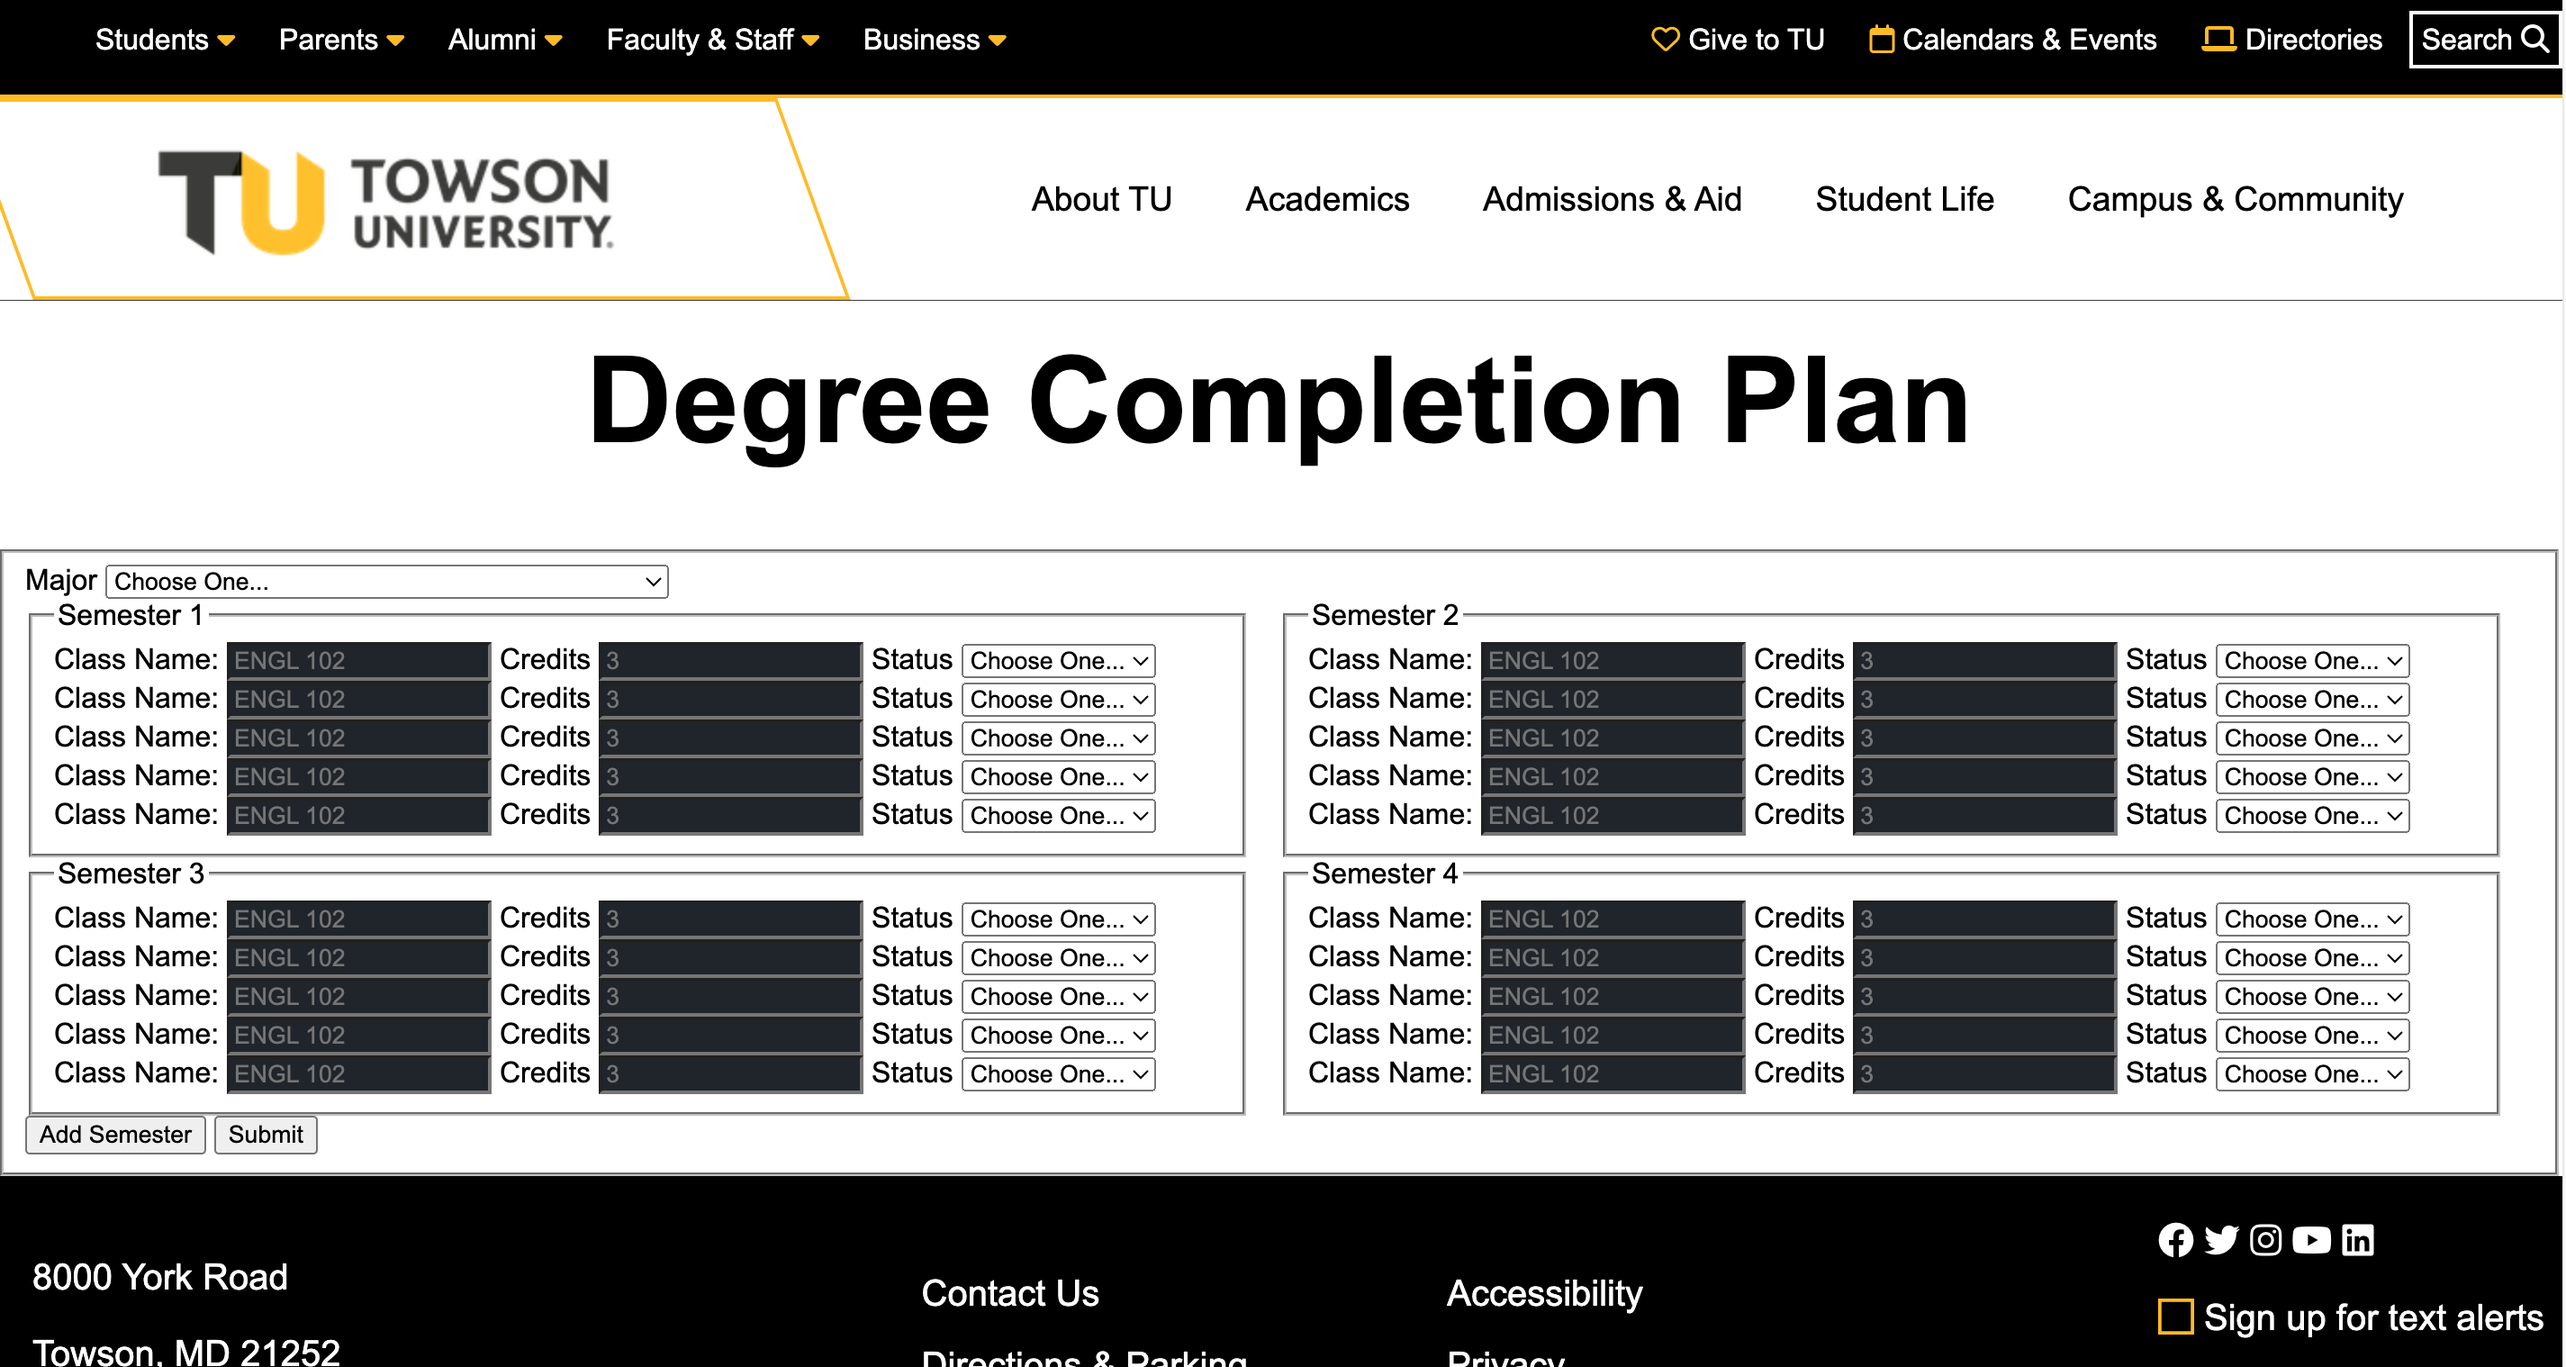
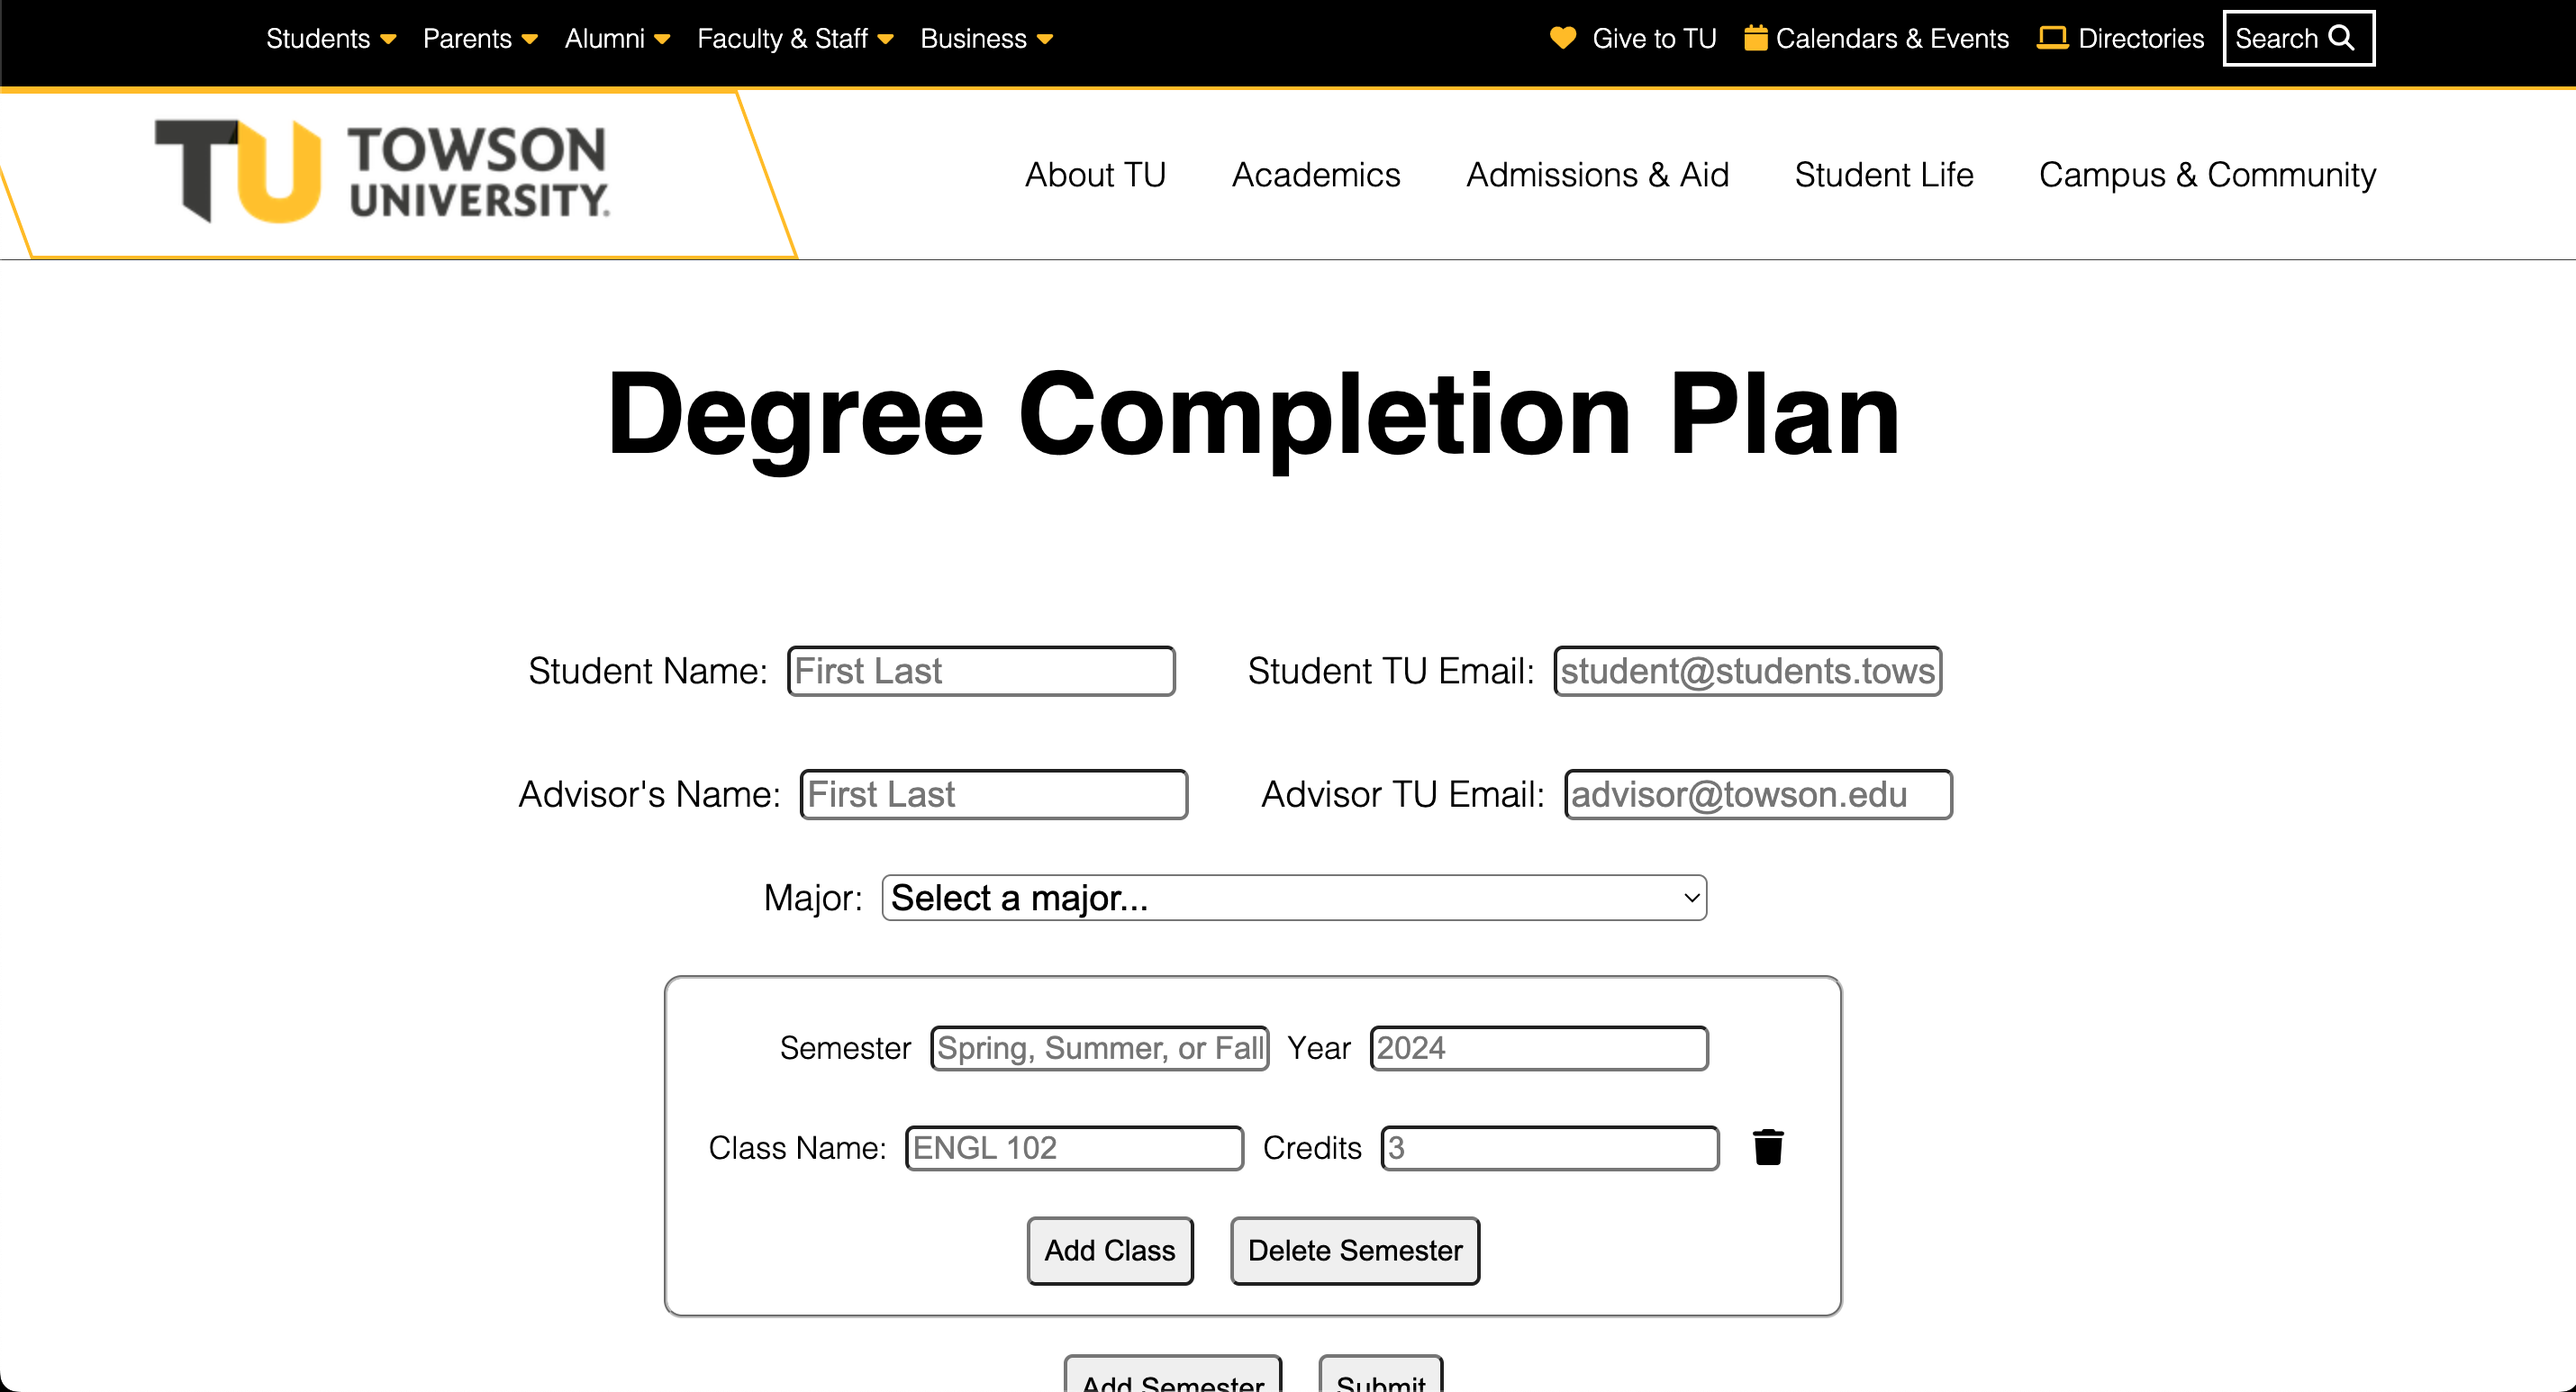
updated project 2 link and photo

diff --git a/projects.html b/projects.html
@@ -95,7 +95,7 @@
             <div class="project-container">
               <a
                 class="project-link"
-                href="https://dcp-react-app.onrender.com"
+                href="https://dcp-amga.onrender.com/"
                 target="_blank"
               >
                 <div
@@ -105,7 +105,7 @@
                   title="Screenshot of a proposed Degree Completion Plan for Towson University."
                 >
                   <div class="project-text">
-                    <p>Degree Completion Plan, Towson University</p>
+                    <p>React - Degree Completion Plan for Towson University</p>
                     <div class="project-icons">
                       <i class="fa-brands fa-html5 icons"></i>
                       <i class="fa-brands fa-css3-alt icons"></i>
